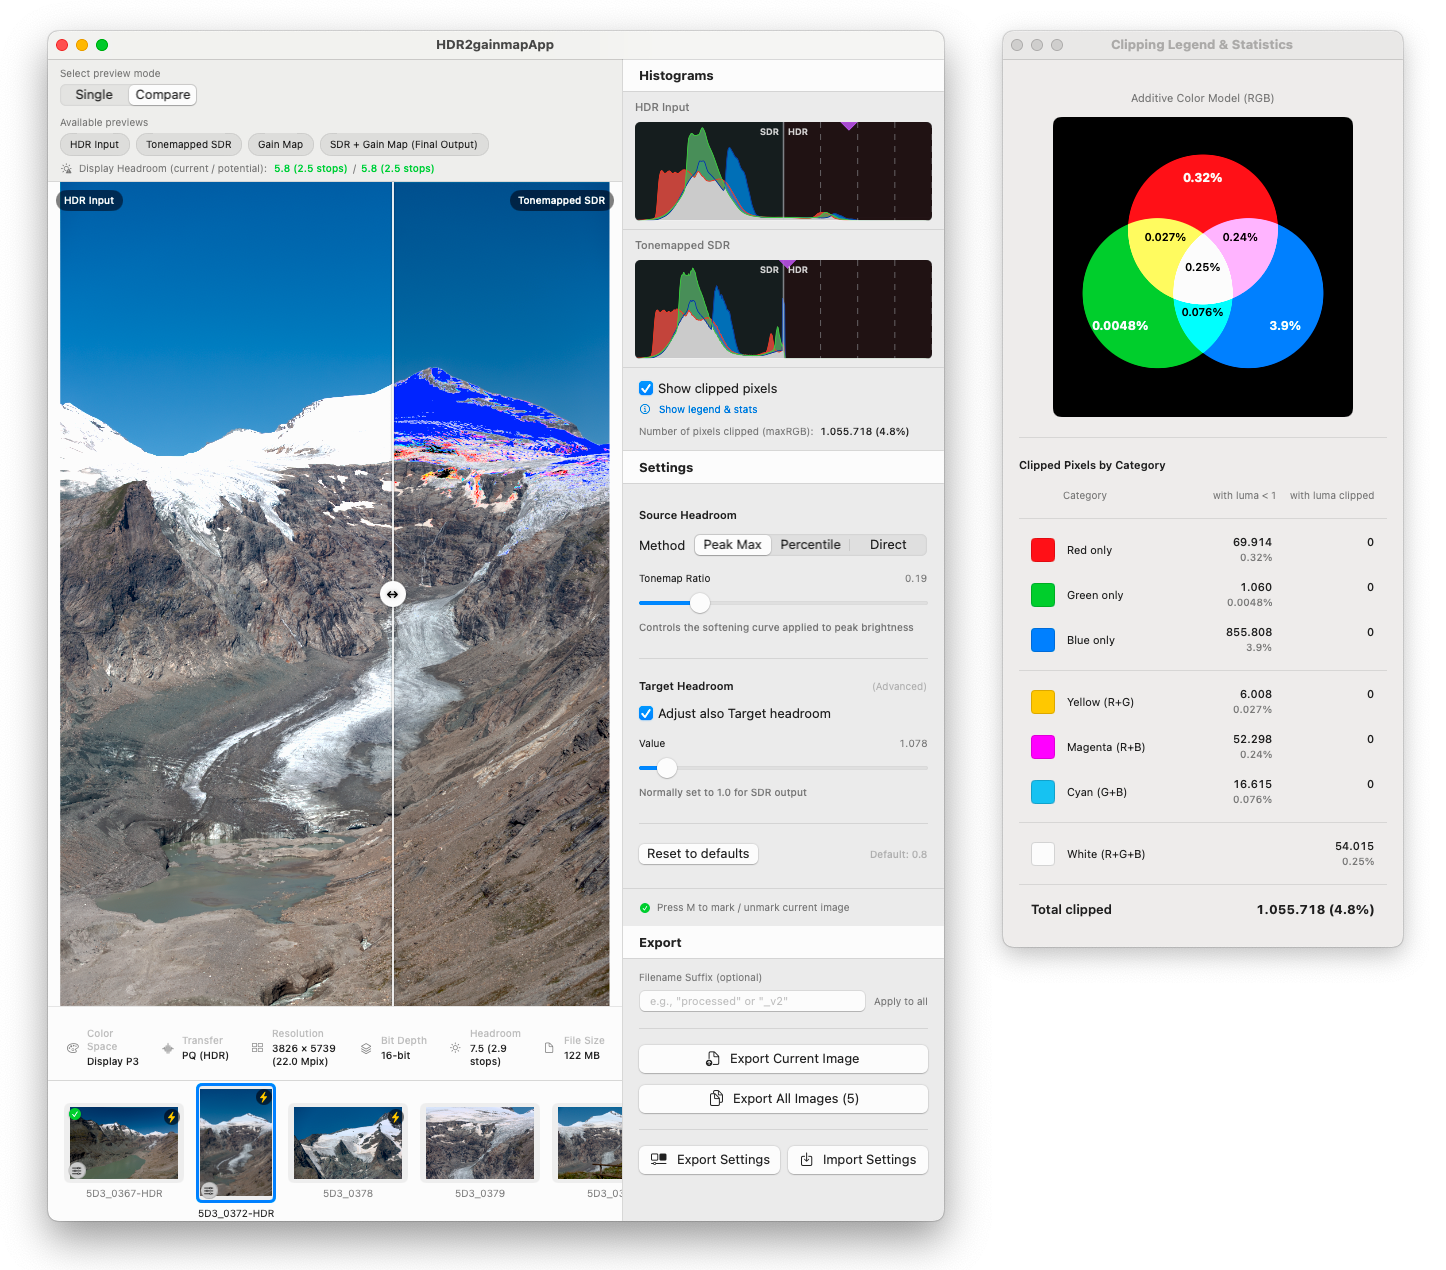
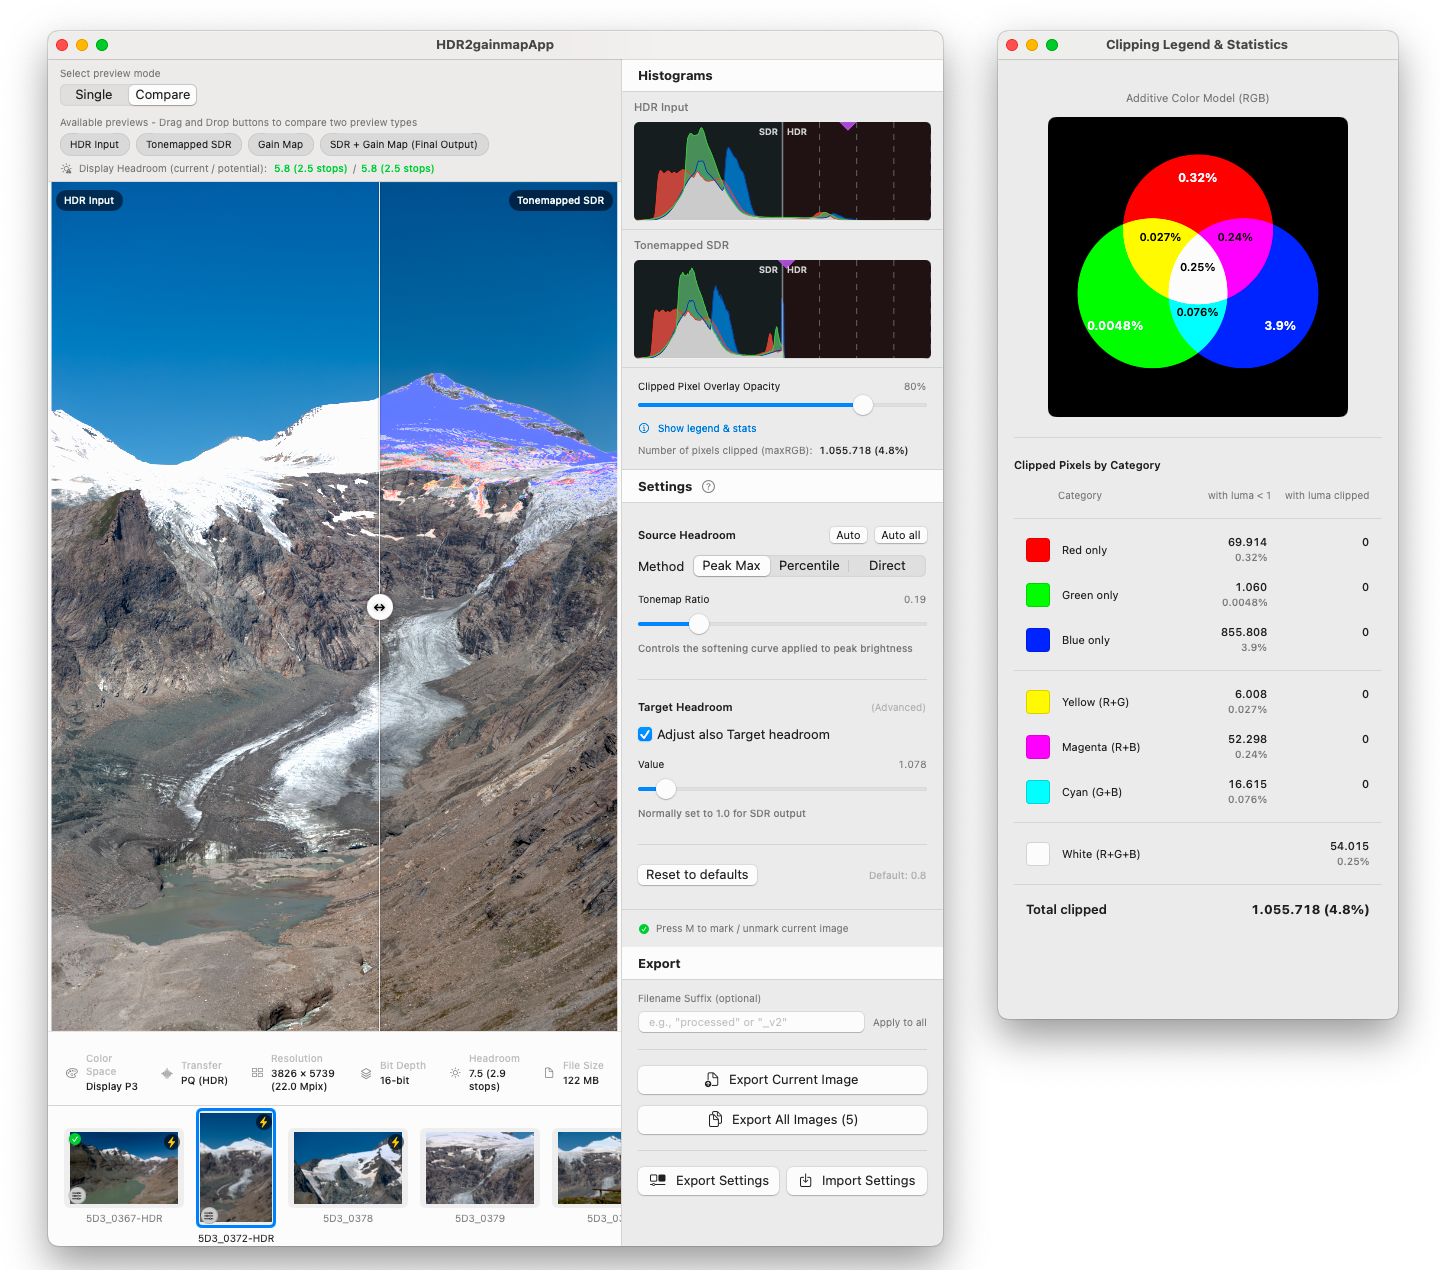
Release 2.1.0: overlay opacity slider + non-HDR input crash fix
Bump MARKETING_VERSION to 2.1.0 (app + CLI). README: document the
adjustable clipped-pixel overlay opacity (slider replacing the show/hide
toggle, 80% default) and refresh the per-image preview-state prose.
Update screenshots/screenshot.png.

Highlights since 2.0.2: on-demand Auto source-headroom hint (+ parallel
"Auto all"), preview-state persistence, settings-save-on-quit guard,
cancellable batch export, harmonized clipping colors, the overlay opacity
slider, and a fix for crashing on non-HDR input folders.

diff --git a/README.md b/README.md
@@ -83,7 +83,7 @@ export an HDR PNG/TIFF → HDR2gainmap App → a gain-map HEIC you can drop stra
 - **Pixel-peeping zoom** (100 % / 200 % / 400 %, configurable) with click-to-zoom and drag-to-pan,
   available in every view.
 - **Real-time clipped-pixel overlay** (multi-color visualization highlighting which channels are
-  being clipped).
+  being clipped) with adjustable opacity.
 - **Live HDR and SDR histograms** with a Lightroom-style split-axis layout (sRGB curve for SDR,
   logarithmic for HDR) and an always-on clipping readout.
 - **Detailed clipping statistics** (always shown, including the count of clipped pixels by maxRGB)
@@ -288,7 +288,8 @@ A segmented selector at the top of the preview column switches the main preview 
 all of which update live (debounced) as you move the tone-mapping sliders:
 
 - **HDR Input** — the original HDR source, rendered in true HDR on capable displays (see EDR below).
-- **Tonemapped SDR** — the SDR base image, with the optional multi-color clipped-pixel overlay.
+- **Tonemapped SDR** — the SDR base image, with the multi-color clipped-pixel overlay (opacity
+  adjustable, including fully hidden).
 - **Gain Map** — the standalone gain map, so you can see exactly where (and how strongly) HDR detail
   is being encoded.
 - **SDR + Gain Map (Final Output)** — the HDR rendition *reconstructed from the SDR base and the gain
@@ -312,7 +313,7 @@ strays into the letterbox), and switching between Single and Compare keeps your 
 
 Each image remembers its own preview state: revisit one and it returns to exactly how you left it
 (Single or Compare, which view(s), zoom level and position), while an image you have never opened
-starts fresh in Single view on the tonemapped SDR base with the clipped-pixel overlay on.
+starts fresh in Single view on the tonemapped SDR base with the clipped-pixel overlay at 80% opacity.
 
 ### Pixel-peeping zoom
 
@@ -425,7 +426,9 @@ The overlay uses a **multi-color scheme** to identify which channels are clipped
 - **Dim variants** (50% intensity): Channel clipping with luminance ≥ 1.0
 - **Black**: All three channels clipped (maxRGB > 1.0)
 
-This allows precise diagnosis of clipping issues across the color gamut.
+This allows precise diagnosis of clipping issues across the color gamut. A **Clipped Pixel Overlay
+Opacity** slider (by the histograms) fades the overlay from fully opaque down to hidden, so you can
+inspect the underlying SDR base without losing the always-on clipping readout.
 
 ### Metal Acceleration
 
